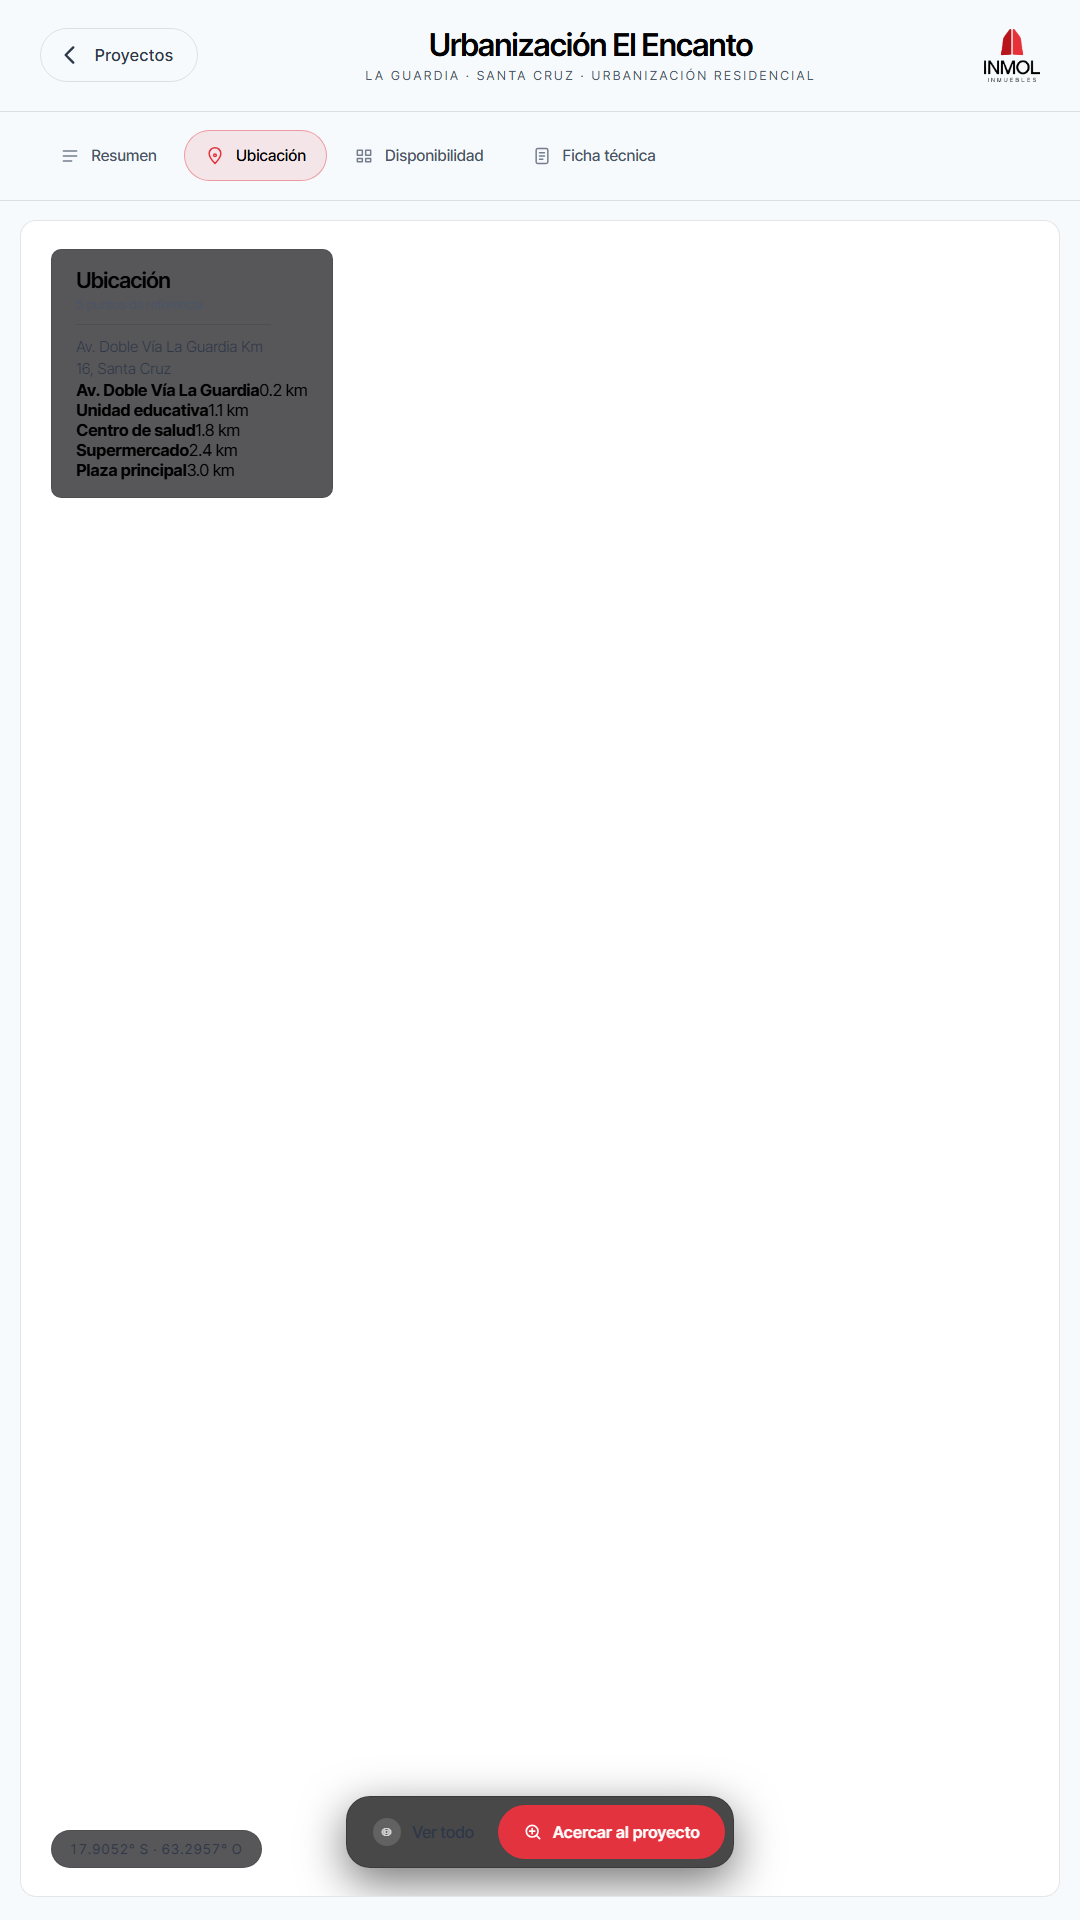
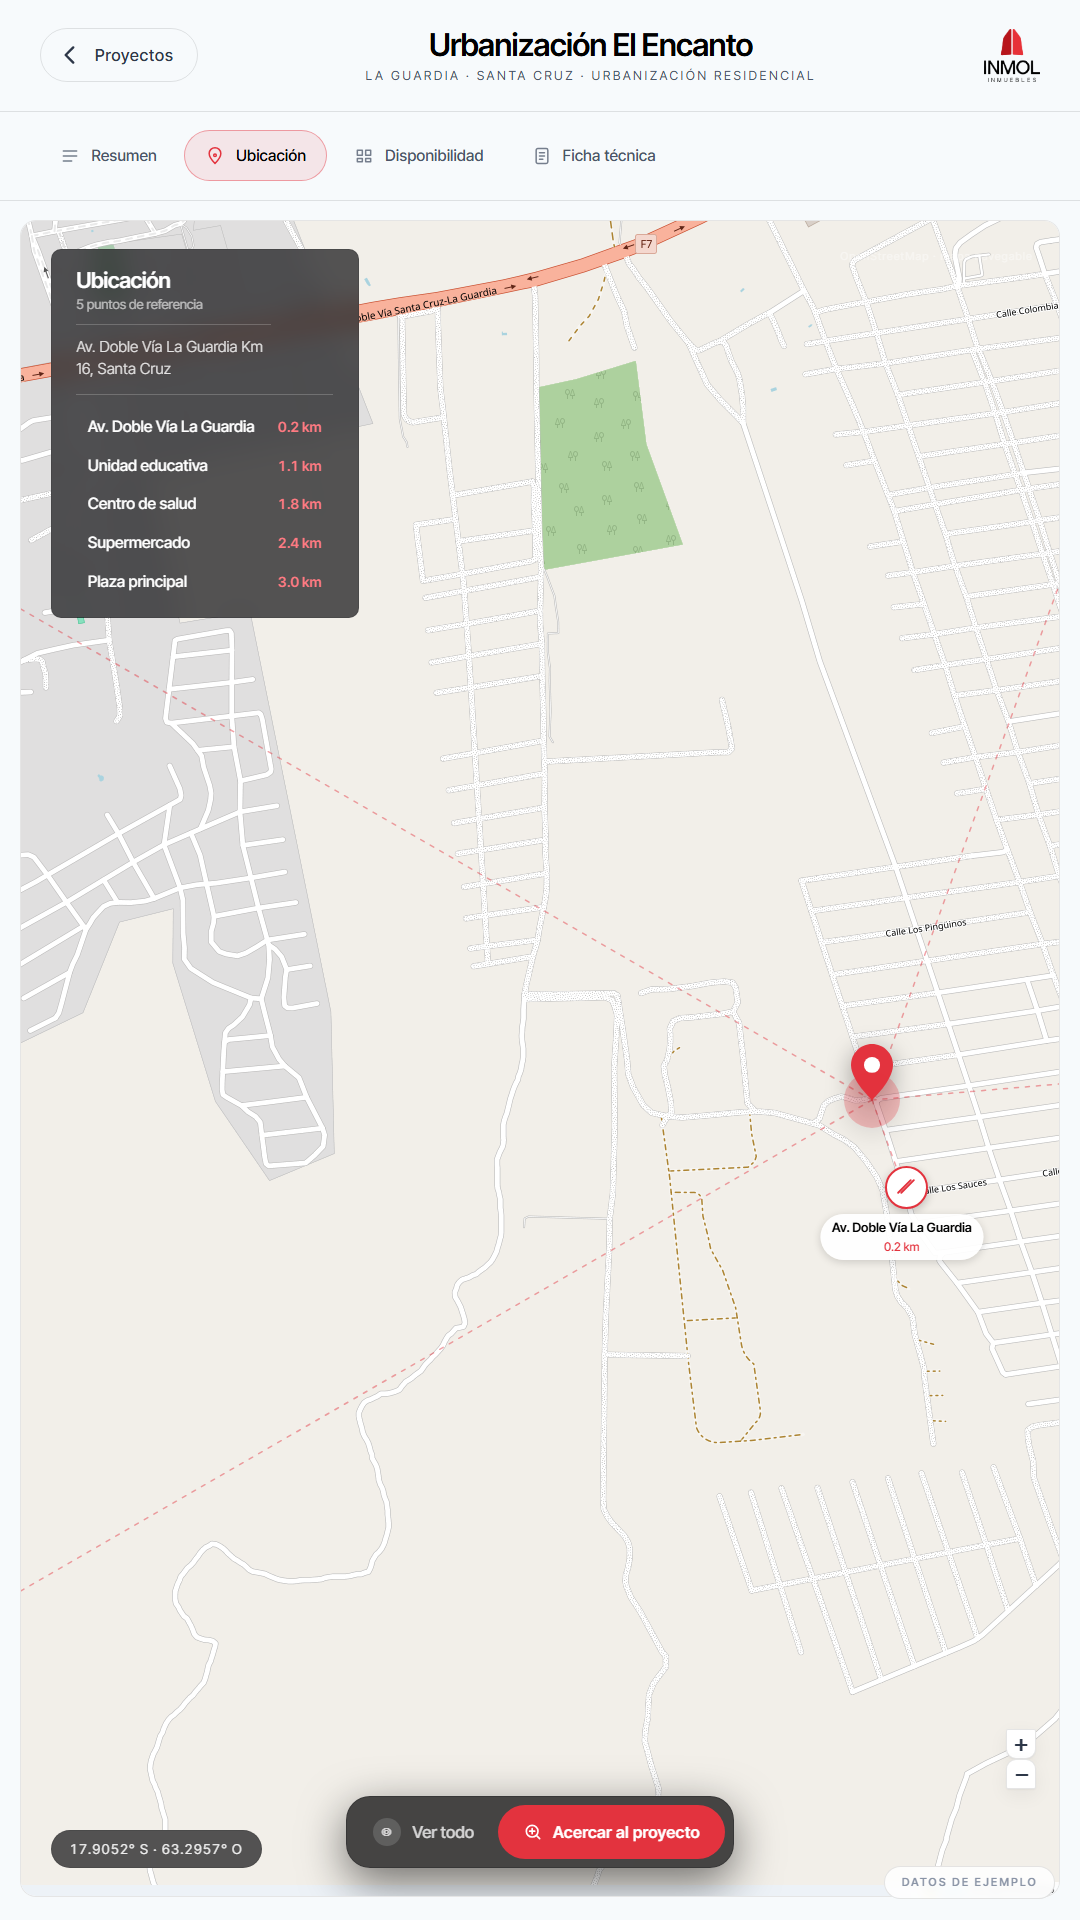
Restaura los estilos del mapa, los pines y el aviso
Al reemplazar por script el bloque de «avance de obra» por el de ficha
técnica, el corte se extendió hasta el siguiente encabezado de sección y
se llevó por delante todo lo que había en medio: los colores de los chips
sobre el mapa, la lista de referencias, el contenedor del mapa, los pines,
el aviso de datos de ejemplo y el panel técnico.

El síntoma era un mapa en blanco: sin `position:absolute; inset:0` el
contenedor de Leaflet queda con altura 0 y no dibuja ninguna tesela.

Verificado a 800x1200 y a 1440x900 con la caché desactivada: el contenedor
mide 767x995 y 1396x681, y carga 20 y 24 teselas con sus 5 pines.

diff --git a/css/estilos.css b/css/estilos.css
@@ -799,6 +799,103 @@ body.sin-animacion .atr-fondo > .visible {
   font-size: .92rem; line-height: 1.55; color: var(--texto-3);
   padding-top: 1.3rem; border-top: 1px solid var(--linea);
 }
+
+/* --- Chips sobre el mapa -------------------------------------------------
+   Son oscuros: su texto va claro aunque el resto del panel sea tema claro. */
+.sat-hud, .sat-coord, .sat-controles { color: #FFFFFF; }
+.sat-hud .sat-nivel-nombre  { color: #FFFFFF; }
+.sat-hud .sat-nivel-det     { color: rgba(255,255,255,.62); }
+.sat-hud .sat-dir-txt       { color: rgba(255,255,255,.85); border-top-color: rgba(255,255,255,.2); }
+.sat-coord                  { color: rgba(255,255,255,.9); }
+.sat-controles .sat-nivel b { color: rgba(255,255,255,.78); }
+.sat-controles .sat-nivel.activo b { color: #FFFFFF; }
+
+/* --- Lista de puntos de referencia dentro de la ficha de ubicación -------- */
+.sat-refs {
+  margin-top: .8rem; padding-top: .8rem;
+  border-top: 1px solid rgba(255,255,255,.2);
+  display: flex; flex-direction: column; gap: .1rem;
+  max-height: 22rem; overflow: auto;
+}
+.sat-refs li {
+  display: flex; align-items: baseline; justify-content: space-between; gap: 1.4rem;
+  padding: .55rem .7rem; border-radius: 8px;
+  cursor: pointer; transition: background 220ms;
+}
+.sat-refs li:active, .sat-refs li.activa { background: rgba(227,51,62,.28); }
+.sat-refs li b { font-size: .95rem; font-weight: 500; color: #FFFFFF; }
+/* Rojo claro: la ficha es oscura, el --rojo-vivo del tema claro no se leería */
+.sat-refs li span {
+  font-size: .85rem; font-weight: 600; color: #FF7A82;
+  font-variant-numeric: tabular-nums; flex: none;
+}
+.sat-refs li.activa span { color: #FFFFFF; }
+
+/* --- Mapa real (Leaflet + OpenStreetMap) ---------------------------------
+   `position: absolute; inset: 0` es imprescindible: sin eso el contenedor
+   queda con altura 0 y Leaflet no dibuja ninguna tesela. */
+.mapa-real { position: absolute; inset: 0; z-index: 3; }
+.leaflet-container { background: var(--superficie-3); font-family: inherit; }
+.leaflet-control-attribution { font-size: 10px; background: rgba(255,255,255,.75); }
+.leaflet-control-zoom { margin: 0 1.4rem 5.6rem 0 !important; border: none !important; }
+.leaflet-control-zoom a {
+  width: 3rem; height: 3rem; line-height: 3rem; font-size: 1.5rem;
+  color: var(--texto-2); border-radius: 10px; border: 1px solid var(--linea) !important;
+  box-shadow: var(--sombra);
+}
+
+/* Pin del proyecto: rojo, con halo que late */
+.pin-proyecto { filter: drop-shadow(0 6px 12px rgba(0,0,0,.35)); }
+.pin-halo {
+  position: absolute; left: 50%; bottom: 0;
+  width: 3.4rem; height: 3.4rem; margin-left: -1.7rem; margin-bottom: -1.7rem;
+  border-radius: 50%; background: rgba(227,51,62,.28);
+  animation: latirPin 3s ease-in-out infinite;
+}
+@keyframes latirPin {
+  0%,100% { transform: scale(.7); opacity: .7; }
+  50%     { transform: scale(1.5); opacity: .12; }
+}
+
+/* Pines de las referencias: círculo blanco con el ícono y su etiqueta */
+.pin-ref { display: grid; place-items: center; }
+.pin-ref-circulo {
+  width: 2.6rem; height: 2.6rem; border-radius: 50%;
+  background: #FFFFFF; border: 2px solid var(--rojo);
+  display: grid; place-items: center;
+  box-shadow: 0 3px 10px rgba(0,0,0,.22);
+}
+.pin-ref-txt {
+  position: absolute; top: 2.9rem; left: 50%; transform: translateX(-50%);
+  white-space: nowrap; text-align: center;
+  font-size: .78rem; font-weight: 600; color: var(--texto);
+  background: rgba(255,255,255,.92); border-radius: 100px;
+  padding: .25rem .7rem; box-shadow: 0 2px 8px rgba(0,0,0,.16);
+}
+.pin-ref-txt b { display: block; font-weight: 500; color: var(--rojo); font-size: .72rem; }
+
+/* --- Aviso de contenido de demostración ---------------------------------- */
+.aviso {
+  position: fixed; z-index: 85; right: 1.5rem; bottom: 1.3rem;
+  padding: .5rem 1rem; border-radius: 100px;
+  background: rgba(255,255,255,.85);
+  border: 1px solid var(--linea);
+  color: var(--texto-4);
+  font-size: .68rem; letter-spacing: .18em; text-transform: uppercase; font-weight: 600;
+  pointer-events: none;
+  backdrop-filter: blur(6px);
+}
+
+/* --- Panel técnico (tecla D) --------------------------------------------- */
+.diag {
+  position: fixed; z-index: 90; left: 1.4rem; bottom: 1.4rem;
+  padding: 1rem 1.3rem; border-radius: var(--r-sm);
+  background: rgba(0,0,0,.88); border: 1px solid var(--linea);
+  font-size: .78rem; line-height: 1.7; color: #E8E8EE;
+  font-family: ui-monospace, Consolas, monospace;
+  max-width: 30rem;
+}
+.diag b { color: var(--rojo); }
 /* ============================================================================
    MODO SIN ANIMACIÓN (?quieto=1)
    Se usa para tomar capturas de pantalla: congela transiciones y animaciones
